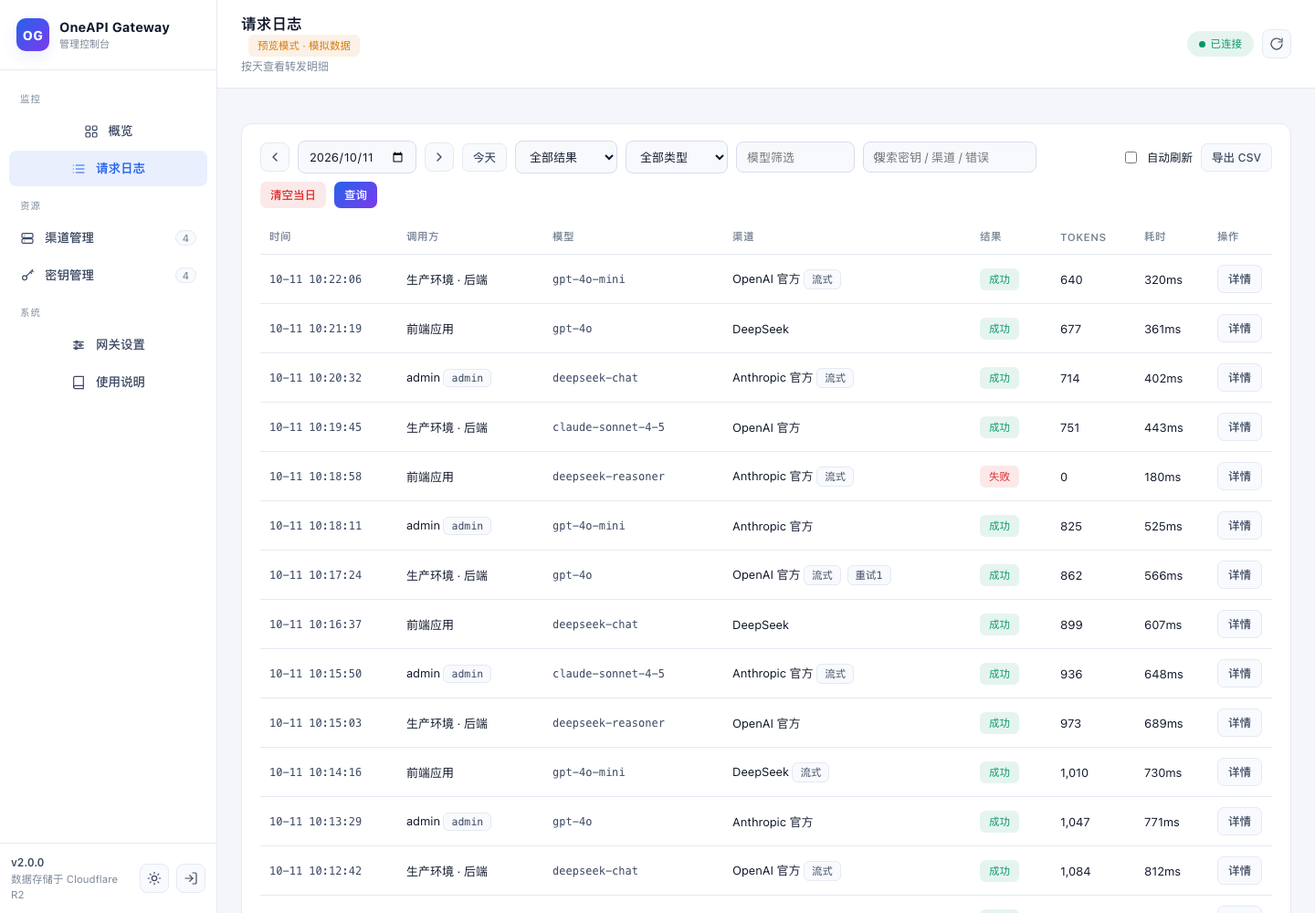
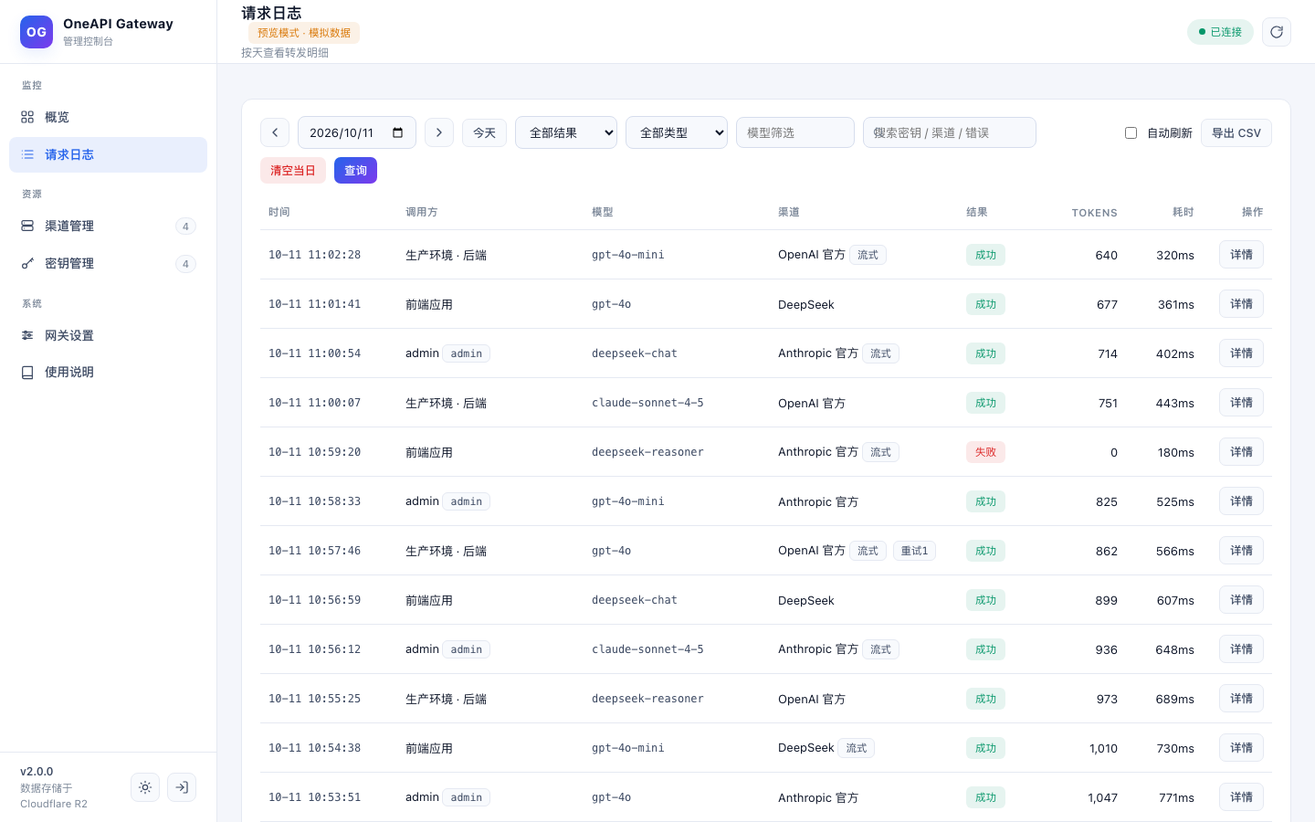
Add files via upload

diff --git a/preview/admin-preview.html b/preview/admin-preview.html
@@ -88,6 +88,7 @@
   .badge.info{background:var(--accent-soft);color:var(--accent);border-color:transparent}
   .badge.warn{background:var(--warn-soft);color:var(--warn);border-color:transparent}
   .chip{display:inline-block;padding:2px 8px;border-radius:6px;background:var(--panel2);border:1px solid var(--border);font-size:11.5px;margin:1px 3px 1px 0;color:var(--text2);font-family:var(--mono)}
+  .chip .nm{white-space:nowrap}
   .dot{width:8px;height:8px;border-radius:50%;display:inline-block;flex-shrink:0;background:var(--border2)}
   .dot.ok{background:var(--ok);box-shadow:0 0 0 3px var(--ok-soft)}
   .dot.bad{background:var(--bad);box-shadow:0 0 0 3px var(--bad-soft)}
@@ -154,18 +155,21 @@
 
   /* ---------- tables ---------- */
   table{width:100%;border-collapse:collapse;font-size:13px}
-  th,td{text-align:left;padding:11px 10px;border-bottom:1px solid var(--border);vertical-align:middle}
+  th,td{text-align:left;padding:11px 9px;border-bottom:1px solid var(--border);vertical-align:middle}
   th{color:var(--muted);font-weight:600;font-size:11.5px;white-space:nowrap;text-transform:uppercase;letter-spacing:.04em}
   tbody tr{transition:background .12s var(--ease)}
   tbody tr:hover{background:var(--hover)}
   tbody tr:last-child td{border-bottom:none}
   td.mono{font-family:var(--mono);font-size:12px;word-break:break-all;color:var(--text2)}
   .ops{white-space:nowrap;display:flex;gap:5px;align-items:center}
+  .ops.r{justify-content:flex-end}
+  th.ar,td.ar{text-align:right}
   .empty{padding:44px 10px;text-align:center;color:var(--muted);font-size:13px}
   .empty svg{width:30px;height:30px;margin-bottom:10px;opacity:.5}
   .tname{display:flex;align-items:center;gap:9px;min-width:0}
+  .tname>div{min-width:0}
   .tname b{font-weight:600;white-space:nowrap}
-  .tname .sub{font-size:11.5px;color:var(--muted);display:block;font-weight:400;margin-top:2px;max-width:230px;overflow:hidden;text-overflow:ellipsis;white-space:nowrap}
+  .tname .sub{font-size:11.5px;color:var(--muted);display:block;font-weight:400;margin-top:2px;max-width:170px;overflow:hidden;text-overflow:ellipsis;white-space:nowrap}
   .quota{display:flex;align-items:center;gap:8px;min-width:130px}
   .progress{flex:1;height:6px;background:var(--input);border-radius:4px;overflow:hidden;border:1px solid var(--border)}
   .progress i{display:block;height:100%;background:linear-gradient(90deg,var(--accent),var(--accent2));border-radius:4px;transition:width .3s var(--ease)}
@@ -176,7 +180,7 @@
   #chTable,#keyTable,#logTable{overflow-x:auto}
   .nowrap{white-space:nowrap}
   .sub{font-size:11.5px;color:var(--muted);display:block;margin-top:2px;font-weight:400}
-  .url{font-family:var(--mono);font-size:12px;color:var(--text2);display:block;max-width:210px;overflow:hidden;text-overflow:ellipsis;white-space:nowrap}
+  .url{font-family:var(--mono);font-size:12px;color:var(--text2);display:block;max-width:160px;overflow:hidden;text-overflow:ellipsis;white-space:nowrap}
   .phead{display:flex;gap:8px;font-size:11.5px;color:var(--muted);padding:0 0 7px;text-transform:uppercase;letter-spacing:.04em}
   .phead span{flex:1}
   .phead span:last-child{flex:0 0 34px;width:34px}
@@ -500,7 +504,7 @@
 <script>
 /* ===== 预览模式：拦截 /api/admin/*，返回本地模拟数据；不连接真实网关 ===== */
 (function () {
-  var M = {"channels":[{"id":"c-openai","name":"OpenAI 官方","type":"openai","base_url":"https://api.openai.com","api_key":"sk-a1,sk-a2,sk-a3","models":["gpt-4o","gpt-4o-mini","text-embedding-3-small"],"model_map":{"gpt-4o":"gpt-4o-2024-11-20"},"headers":{},"priority":100,"weight":3,"enabled":true,"health":{"ok":true,"ms":412,"checked_at":"2026-10-11T02:39:31.907Z"}},{"id":"c-deepseek","name":"DeepSeek","type":"openai","base_url":"https://api.deepseek.com","api_key":"sk-ds-1","models":["deepseek-chat","deepseek-reasoner"],"model_map":{},"headers":{},"priority":100,"weight":1,"enabled":true,"health":{"ok":true,"ms":288,"checked_at":"2026-10-11T02:36:31.907Z"}},{"id":"c-claude","name":"Anthropic 官方","type":"anthropic","base_url":"https://api.anthropic.com","api_key":"sk-ant-1","models":["claude-sonnet-4-5","claude-haiku-4-5"],"model_map":{},"headers":{},"default_max_tokens":4096,"priority":120,"weight":1,"enabled":true,"health":{"ok":false,"ms":0,"message":"HTTP 401 invalid x-api-key","checked_at":"2026-10-11T02:31:31.907Z"}},{"id":"c-moonshot","name":"Moonshot（备用）","type":"openai","base_url":"https://api.moonshot.cn","api_key":"","models":["moonshot-v1-8k"],"model_map":{},"headers":{},"priority":200,"weight":1,"enabled":false}],"keys":[{"key":"sk-9f3c1a7b42d84e0f8a6c5b3d2e1f0a9c8b7d6e5f4a3b2c1d","name":"生产环境 · 后端","enabled":true,"quota_tokens":5000000,"used_tokens":1284300,"requests":8421,"used_cost":38.42,"allowed_models":[],"note":"主力密钥","created_at":"2026-09-11T02:41:31.907Z","last_used_at":"2026-10-11T02:40:46.907Z","expires_at":""},{"key":"sk-2b8e4d6a1c9f3e7b5d0a8c2f4e6b1d3a9c7f5e2b8d4a6c0f","name":"前端应用","enabled":true,"quota_tokens":1000000,"used_tokens":962400,"requests":3120,"used_cost":12.08,"allowed_models":["gpt-4o-mini","deepseek-chat"],"note":"仅允许轻量模型","created_at":"2026-09-29T02:41:31.907Z","last_used_at":"2026-10-11T01:41:31.907Z","expires_at":"2026-10-31T02:41:31.907Z"},{"key":"sk-7a1d9c3f5b8e2d4a6c0f9b7e5d3a1c8f6b4e2d0a9c7f5b3e","name":"测试沙箱","enabled":true,"quota_tokens":200000,"used_tokens":200000,"requests":640,"used_cost":2.31,"allowed_models":[],"note":"配额已用尽","created_at":"2026-08-12T02:41:31.907Z","last_used_at":"2026-10-09T02:41:31.907Z","expires_at":""},{"key":"sk-4e6b8d0f2a4c6e8b0d2f4a6c8e0b2d4f6a8c0e2b4d6f8a0c","name":"已停用 · 旧客户端","enabled":false,"quota_tokens":0,"used_tokens":120450,"requests":980,"used_cost":4.55,"allowed_models":[],"created_at":"2026-07-13T02:41:31.907Z","last_used_at":"2026-09-26T02:41:31.907Z","expires_at":"2026-10-08T02:41:31.907Z"}],"settings":{"allow_admin_key_as_api_key":true,"request_timeout_ms":60000,"retries":1,"log_retention_days":30,"timezone_offset_minutes":480,"custom_models":["my-alias"],"default_pricing":{"in":0.15,"out":0.6},"pricing":{"gpt-4o":{"in":2.5,"out":10},"gpt-4o-mini":{"in":0.15,"out":0.6},"deepseek-chat":{"in":0.14,"out":0.28},"claude-sonnet-4-5":{"in":3,"out":15}}},"stats":{"days":[{"date":"2026-09-28","requests":293,"ok":289,"failed":4,"tokens":288019,"cost":0.39,"streams":182,"avg_ms":311,"hours":{}},{"date":"2026-09-29","requests":481,"ok":475,"failed":6,"tokens":467532,"cost":0.63,"streams":298,"avg_ms":292,"hours":{}},{"date":"2026-09-30","requests":644,"ok":636,"failed":8,"tokens":528724,"cost":0.71,"streams":399,"avg_ms":339,"hours":{}},{"date":"2026-10-01","requests":575,"ok":568,"failed":7,"tokens":384675,"cost":0.52,"streams":357,"avg_ms":417,"hours":{}},{"date":"2026-10-02","requests":408,"ok":403,"failed":5,"tokens":267648,"cost":0.36,"streams":253,"avg_ms":467,"hours":{}},{"date":"2026-10-03","requests":420,"ok":415,"failed":5,"tokens":333480,"cost":0.45,"streams":260,"avg_ms":451,"hours":{}},{"date":"2026-10-04","requests":625,"ok":617,"failed":8,"tokens":597500,"cost":0.81,"streams":388,"avg_ms":382,"hours":{}},{"date":"2026-10-05","requests":756,"ok":747,"failed":9,"tokens":750708,"cost":1.01,"streams":469,"avg_ms":310,"hours":{}},{"date":"2026-10-06","requests":652,"ok":644,"failed":8,"tokens":567892,"cost":0.77,"streams":404,"avg_ms":292,"hours":{}},{"date":"2026-10-07","requests":499,"ok":493,"failed":6,"tokens":350298,"cost":0.47,"streams":309,"avg_ms":340,"hours":{}},{"date":"2026-10-08","requests":552,"ok":491,"failed":61,"tokens":354384,"cost":0.48,"streams":342,"avg_ms":418,"hours":{}},{"date":"2026-10-09","requests":766,"ok":757,"failed":9,"tokens":570670,"cost":0.77,"streams":475,"avg_ms":468,"hours":{}},{"date":"2026-10-10","requests":860,"ok":850,"failed":10,"tokens":788620,"cost":1.06,"streams":533,"avg_ms":450,"hours":{}},{"date":"2026-10-11","requests":728,"ok":719,"failed":9,"tokens":728000,"cost":0.98,"streams":451,"avg_ms":380,"hours":{}}],"totals":{"requests":8259,"ok":8104,"failed":155,"tokens":6978150,"cost":9.42,"streams":5120,"latency_sum":3155640,"latency_n":8259,"avg_ms":382,"success_rate":98.1},"models":[{"name":"gpt-4o-mini","requests":2808,"ok":2780,"failed":28,"tokens":2372571,"cost":3.2},{"name":"deepseek-chat","requests":2230,"ok":2208,"failed":22,"tokens":1884101,"cost":2.54},{"name":"gpt-4o","requests":1487,"ok":1472,"failed":15,"tokens":1256067,"cost":1.7},{"name":"claude-sonnet-4-5","requests":1074,"ok":1063,"failed":11,"tokens":907160,"cost":1.22},{"name":"deepseek-reasoner","requests":661,"ok":654,"failed":7,"tokens":558252,"cost":0.75}],"channels":[{"name":"OpenAI 官方","requests":4295,"ok":4252,"failed":43,"tokens":3628638,"cost":4.9},{"name":"DeepSeek","requests":2891,"ok":2862,"failed":29,"tokens":2442353,"cost":3.3},{"name":"Anthropic 官方","requests":1074,"ok":1063,"failed":11,"tokens":907160,"cost":1.22}],"keys":[{"name":"生产环境 · 后端","requests":4790,"ok":4742,"failed":48,"tokens":4047327,"cost":5.46},{"name":"前端应用","requests":2313,"ok":2289,"failed":23,"tokens":1953882,"cost":2.64},{"name":"测试沙箱","requests":743,"ok":736,"failed":7,"tokens":628034,"cost":0.85},{"name":"admin","requests":413,"ok":409,"failed":4,"tokens":348908,"cost":0.47}]},"logs":[{"key":"logs/2026-10-11/8208313508092-ab12cd.json","ts":"2026-10-11T02:41:31.907Z","request_id":"req_1x9f2k1","key_name":"生产环境 · 后端","is_admin":false,"model":"gpt-4o-mini","channel":"OpenAI 官方","ok":true,"tokens":640,"cost":0.0009,"ms":320,"stream":true,"retries":0,"error":""},{"key":"logs/2026-10-11/8208313555092-ab12cd.json","ts":"2026-10-11T02:40:44.907Z","request_id":"req_2x9f2k1","key_name":"前端应用","is_admin":false,"model":"gpt-4o","channel":"DeepSeek","ok":true,"tokens":677,"cost":0.0009,"ms":361,"stream":false,"retries":0,"error":""},{"key":"logs/2026-10-11/8208313602092-ab12cd.json","ts":"2026-10-11T02:39:57.907Z","request_id":"req_3x9f2k1","key_name":"admin","is_admin":true,"model":"deepseek-chat","channel":"Anthropic 官方","ok":true,"tokens":714,"cost":0.001,"ms":402,"stream":true,"retries":0,"error":""},{"key":"logs/2026-10-11/8208313649092-ab12cd.json","ts":"2026-10-11T02:39:10.907Z","request_id":"req_4x9f2k1","key_name":"生产环境 · 后端","is_admin":false,"model":"claude-sonnet-4-5","channel":"OpenAI 官方","ok":true,"tokens":751,"cost":0.001,"ms":443,"stream":false,"retries":0,"error":""},{"key":"logs/2026-10-11/8208313696092-ab12cd.json","ts":"2026-10-11T02:38:23.907Z","request_id":"req_5x9f2k1","key_name":"前端应用","is_admin":false,"model":"deepseek-reasoner","channel":"Anthropic 官方","ok":false,"tokens":0,"cost":0,"ms":180,"stream":true,"retries":0,"error":"HTTP 401 invalid x-api-key"},{"key":"logs/2026-10-11/8208313743092-ab12cd.json","ts":"2026-10-11T02:37:36.907Z","request_id":"req_6x9f2k1","key_name":"admin","is_admin":true,"model":"gpt-4o-mini","channel":"Anthropic 官方","ok":true,"tokens":825,"cost":0.0011,"ms":525,"stream":false,"retries":0,"error":""},{"key":"logs/2026-10-11/8208313790092-ab12cd.json","ts":"2026-10-11T02:36:49.907Z","request_id":"req_7x9f2k1","key_name":"生产环境 · 后端","is_admin":false,"model":"gpt-4o","channel":"OpenAI 官方","ok":true,"tokens":862,"cost":0.0012,"ms":566,"stream":true,"retries":1,"error":""},{"key":"logs/2026-10-11/8208313837092-ab12cd.json","ts":"2026-10-11T02:36:02.907Z","request_id":"req_8x9f2k1","key_name":"前端应用","is_admin":false,"model":"deepseek-chat","channel":"DeepSeek","ok":true,"tokens":899,"cost":0.0012,"ms":607,"stream":false,"retries":0,"error":""},{"key":"logs/2026-10-11/8208313884092-ab12cd.json","ts":"2026-10-11T02:35:15.907Z","request_id":"req_9x9f2k1","key_name":"admin","is_admin":true,"model":"claude-sonnet-4-5","channel":"Anthropic 官方","ok":true,"tokens":936,"cost":0.0013,"ms":648,"stream":true,"retries":0,"error":""},{"key":"logs/2026-10-11/8208313931092-ab12cd.json","ts":"2026-10-11T02:34:28.907Z","request_id":"req_ax9f2k1","key_name":"生产环境 · 后端","is_admin":false,"model":"deepseek-reasoner","channel":"OpenAI 官方","ok":true,"tokens":973,"cost":0.0013,"ms":689,"stream":false,"retries":0,"error":""},{"key":"logs/2026-10-11/8208313978092-ab12cd.json","ts":"2026-10-11T02:33:41.907Z","request_id":"req_bx9f2k1","key_name":"前端应用","is_admin":false,"model":"gpt-4o-mini","channel":"DeepSeek","ok":true,"tokens":1010,"cost":0.0014,"ms":730,"stream":true,"retries":0,"error":""},{"key":"logs/2026-10-11/8208314025092-ab12cd.json","ts":"2026-10-11T02:32:54.907Z","request_id":"req_cx9f2k1","key_name":"admin","is_admin":true,"model":"gpt-4o","channel":"Anthropic 官方","ok":true,"tokens":1047,"cost":0.0014,"ms":771,"stream":false,"retries":0,"error":""},{"key":"logs/2026-10-11/8208314072092-ab12cd.json","ts":"2026-10-11T02:32:07.907Z","request_id":"req_dx9f2k1","key_name":"生产环境 · 后端","is_admin":false,"model":"deepseek-chat","channel":"OpenAI 官方","ok":true,"tokens":1084,"cost":0.0015,"ms":812,"stream":true,"retries":0,"error":""},{"key":"logs/2026-10-11/8208314119092-ab12cd.json","ts":"2026-10-11T02:31:20.907Z","request_id":"req_ex9f2k1","key_name":"前端应用","is_admin":false,"model":"claude-sonnet-4-5","channel":"DeepSeek","ok":true,"tokens":1121,"cost":0.0015,"ms":853,"stream":false,"retries":0,"error":""}],"dates":["2026-10-11","2026-10-10","2026-10-09"]};
+  var M = {"channels":[{"id":"c-openai","name":"OpenAI 官方","type":"openai","base_url":"https://api.openai.com","api_key":"sk-a1,sk-a2,sk-a3","models":["gpt-4o","gpt-4o-mini","text-embedding-3-small"],"model_map":{"gpt-4o":"gpt-4o-2024-11-20"},"headers":{},"priority":100,"weight":3,"enabled":true,"health":{"ok":true,"ms":412,"checked_at":"2026-10-11T03:00:28.611Z"}},{"id":"c-deepseek","name":"DeepSeek","type":"openai","base_url":"https://api.deepseek.com","api_key":"sk-ds-1","models":["deepseek-chat","deepseek-reasoner"],"model_map":{},"headers":{},"priority":100,"weight":1,"enabled":true,"health":{"ok":true,"ms":288,"checked_at":"2026-10-11T02:57:28.611Z"}},{"id":"c-claude","name":"Anthropic 官方","type":"anthropic","base_url":"https://api.anthropic.com","api_key":"sk-ant-1","models":["claude-sonnet-4-5","claude-haiku-4-5"],"model_map":{},"headers":{},"default_max_tokens":4096,"priority":120,"weight":1,"enabled":true,"health":{"ok":false,"ms":0,"message":"HTTP 401 invalid x-api-key","checked_at":"2026-10-11T02:52:28.611Z"}},{"id":"c-moonshot","name":"Moonshot（备用）","type":"openai","base_url":"https://api.moonshot.cn","api_key":"","models":["moonshot-v1-8k"],"model_map":{},"headers":{},"priority":200,"weight":1,"enabled":false}],"keys":[{"key":"sk-9f3c1a7b42d84e0f8a6c5b3d2e1f0a9c8b7d6e5f4a3b2c1d","name":"生产环境 · 后端","enabled":true,"quota_tokens":5000000,"used_tokens":1284300,"requests":8421,"used_cost":38.42,"allowed_models":[],"note":"主力密钥","created_at":"2026-09-11T03:02:28.611Z","last_used_at":"2026-10-11T03:01:43.611Z","expires_at":""},{"key":"sk-2b8e4d6a1c9f3e7b5d0a8c2f4e6b1d3a9c7f5e2b8d4a6c0f","name":"前端应用","enabled":true,"quota_tokens":1000000,"used_tokens":962400,"requests":3120,"used_cost":12.08,"allowed_models":["gpt-4o-mini","deepseek-chat"],"note":"仅允许轻量模型","created_at":"2026-09-29T03:02:28.611Z","last_used_at":"2026-10-11T02:02:28.611Z","expires_at":"2026-10-31T03:02:28.611Z"},{"key":"sk-7a1d9c3f5b8e2d4a6c0f9b7e5d3a1c8f6b4e2d0a9c7f5b3e","name":"测试沙箱","enabled":true,"quota_tokens":200000,"used_tokens":200000,"requests":640,"used_cost":2.31,"allowed_models":[],"note":"配额已用尽","created_at":"2026-08-12T03:02:28.611Z","last_used_at":"2026-10-09T03:02:28.611Z","expires_at":""},{"key":"sk-4e6b8d0f2a4c6e8b0d2f4a6c8e0b2d4f6a8c0e2b4d6f8a0c","name":"已停用 · 旧客户端","enabled":false,"quota_tokens":0,"used_tokens":120450,"requests":980,"used_cost":4.55,"allowed_models":[],"created_at":"2026-07-13T03:02:28.611Z","last_used_at":"2026-09-26T03:02:28.611Z","expires_at":"2026-10-08T03:02:28.611Z"}],"settings":{"allow_admin_key_as_api_key":true,"request_timeout_ms":60000,"retries":1,"log_retention_days":30,"timezone_offset_minutes":480,"custom_models":["my-alias"],"default_pricing":{"in":0.15,"out":0.6},"pricing":{"gpt-4o":{"in":2.5,"out":10},"gpt-4o-mini":{"in":0.15,"out":0.6},"deepseek-chat":{"in":0.14,"out":0.28},"claude-sonnet-4-5":{"in":3,"out":15}}},"stats":{"days":[{"date":"2026-09-28","requests":293,"ok":289,"failed":4,"tokens":288019,"cost":0.39,"streams":182,"avg_ms":311,"hours":{}},{"date":"2026-09-29","requests":481,"ok":475,"failed":6,"tokens":467532,"cost":0.63,"streams":298,"avg_ms":292,"hours":{}},{"date":"2026-09-30","requests":644,"ok":636,"failed":8,"tokens":528724,"cost":0.71,"streams":399,"avg_ms":339,"hours":{}},{"date":"2026-10-01","requests":575,"ok":568,"failed":7,"tokens":384675,"cost":0.52,"streams":357,"avg_ms":417,"hours":{}},{"date":"2026-10-02","requests":408,"ok":403,"failed":5,"tokens":267648,"cost":0.36,"streams":253,"avg_ms":467,"hours":{}},{"date":"2026-10-03","requests":420,"ok":415,"failed":5,"tokens":333480,"cost":0.45,"streams":260,"avg_ms":451,"hours":{}},{"date":"2026-10-04","requests":625,"ok":617,"failed":8,"tokens":597500,"cost":0.81,"streams":388,"avg_ms":382,"hours":{}},{"date":"2026-10-05","requests":756,"ok":747,"failed":9,"tokens":750708,"cost":1.01,"streams":469,"avg_ms":310,"hours":{}},{"date":"2026-10-06","requests":652,"ok":644,"failed":8,"tokens":567892,"cost":0.77,"streams":404,"avg_ms":292,"hours":{}},{"date":"2026-10-07","requests":499,"ok":493,"failed":6,"tokens":350298,"cost":0.47,"streams":309,"avg_ms":340,"hours":{}},{"date":"2026-10-08","requests":552,"ok":491,"failed":61,"tokens":354384,"cost":0.48,"streams":342,"avg_ms":418,"hours":{}},{"date":"2026-10-09","requests":766,"ok":757,"failed":9,"tokens":570670,"cost":0.77,"streams":475,"avg_ms":468,"hours":{}},{"date":"2026-10-10","requests":860,"ok":850,"failed":10,"tokens":788620,"cost":1.06,"streams":533,"avg_ms":450,"hours":{}},{"date":"2026-10-11","requests":728,"ok":719,"failed":9,"tokens":728000,"cost":0.98,"streams":451,"avg_ms":380,"hours":{}}],"totals":{"requests":8259,"ok":8104,"failed":155,"tokens":6978150,"cost":9.42,"streams":5120,"latency_sum":3155640,"latency_n":8259,"avg_ms":382,"success_rate":98.1},"models":[{"name":"gpt-4o-mini","requests":2808,"ok":2780,"failed":28,"tokens":2372571,"cost":3.2},{"name":"deepseek-chat","requests":2230,"ok":2208,"failed":22,"tokens":1884101,"cost":2.54},{"name":"gpt-4o","requests":1487,"ok":1472,"failed":15,"tokens":1256067,"cost":1.7},{"name":"claude-sonnet-4-5","requests":1074,"ok":1063,"failed":11,"tokens":907160,"cost":1.22},{"name":"deepseek-reasoner","requests":661,"ok":654,"failed":7,"tokens":558252,"cost":0.75}],"channels":[{"name":"OpenAI 官方","requests":4295,"ok":4252,"failed":43,"tokens":3628638,"cost":4.9},{"name":"DeepSeek","requests":2891,"ok":2862,"failed":29,"tokens":2442353,"cost":3.3},{"name":"Anthropic 官方","requests":1074,"ok":1063,"failed":11,"tokens":907160,"cost":1.22}],"keys":[{"name":"生产环境 · 后端","requests":4790,"ok":4742,"failed":48,"tokens":4047327,"cost":5.46},{"name":"前端应用","requests":2313,"ok":2289,"failed":23,"tokens":1953882,"cost":2.64},{"name":"测试沙箱","requests":743,"ok":736,"failed":7,"tokens":628034,"cost":0.85},{"name":"admin","requests":413,"ok":409,"failed":4,"tokens":348908,"cost":0.47}]},"logs":[{"key":"logs/2026-10-11/8208312251388-ab12cd.json","ts":"2026-10-11T03:02:28.611Z","request_id":"req_1x9f2k1","key_name":"生产环境 · 后端","is_admin":false,"model":"gpt-4o-mini","channel":"OpenAI 官方","ok":true,"tokens":640,"cost":0.0009,"ms":320,"stream":true,"retries":0,"error":""},{"key":"logs/2026-10-11/8208312298388-ab12cd.json","ts":"2026-10-11T03:01:41.611Z","request_id":"req_2x9f2k1","key_name":"前端应用","is_admin":false,"model":"gpt-4o","channel":"DeepSeek","ok":true,"tokens":677,"cost":0.0009,"ms":361,"stream":false,"retries":0,"error":""},{"key":"logs/2026-10-11/8208312345388-ab12cd.json","ts":"2026-10-11T03:00:54.611Z","request_id":"req_3x9f2k1","key_name":"admin","is_admin":true,"model":"deepseek-chat","channel":"Anthropic 官方","ok":true,"tokens":714,"cost":0.001,"ms":402,"stream":true,"retries":0,"error":""},{"key":"logs/2026-10-11/8208312392388-ab12cd.json","ts":"2026-10-11T03:00:07.611Z","request_id":"req_4x9f2k1","key_name":"生产环境 · 后端","is_admin":false,"model":"claude-sonnet-4-5","channel":"OpenAI 官方","ok":true,"tokens":751,"cost":0.001,"ms":443,"stream":false,"retries":0,"error":""},{"key":"logs/2026-10-11/8208312439388-ab12cd.json","ts":"2026-10-11T02:59:20.611Z","request_id":"req_5x9f2k1","key_name":"前端应用","is_admin":false,"model":"deepseek-reasoner","channel":"Anthropic 官方","ok":false,"tokens":0,"cost":0,"ms":180,"stream":true,"retries":0,"error":"HTTP 401 invalid x-api-key"},{"key":"logs/2026-10-11/8208312486388-ab12cd.json","ts":"2026-10-11T02:58:33.611Z","request_id":"req_6x9f2k1","key_name":"admin","is_admin":true,"model":"gpt-4o-mini","channel":"Anthropic 官方","ok":true,"tokens":825,"cost":0.0011,"ms":525,"stream":false,"retries":0,"error":""},{"key":"logs/2026-10-11/8208312533388-ab12cd.json","ts":"2026-10-11T02:57:46.611Z","request_id":"req_7x9f2k1","key_name":"生产环境 · 后端","is_admin":false,"model":"gpt-4o","channel":"OpenAI 官方","ok":true,"tokens":862,"cost":0.0012,"ms":566,"stream":true,"retries":1,"error":""},{"key":"logs/2026-10-11/8208312580388-ab12cd.json","ts":"2026-10-11T02:56:59.611Z","request_id":"req_8x9f2k1","key_name":"前端应用","is_admin":false,"model":"deepseek-chat","channel":"DeepSeek","ok":true,"tokens":899,"cost":0.0012,"ms":607,"stream":false,"retries":0,"error":""},{"key":"logs/2026-10-11/8208312627388-ab12cd.json","ts":"2026-10-11T02:56:12.611Z","request_id":"req_9x9f2k1","key_name":"admin","is_admin":true,"model":"claude-sonnet-4-5","channel":"Anthropic 官方","ok":true,"tokens":936,"cost":0.0013,"ms":648,"stream":true,"retries":0,"error":""},{"key":"logs/2026-10-11/8208312674388-ab12cd.json","ts":"2026-10-11T02:55:25.611Z","request_id":"req_ax9f2k1","key_name":"生产环境 · 后端","is_admin":false,"model":"deepseek-reasoner","channel":"OpenAI 官方","ok":true,"tokens":973,"cost":0.0013,"ms":689,"stream":false,"retries":0,"error":""},{"key":"logs/2026-10-11/8208312721388-ab12cd.json","ts":"2026-10-11T02:54:38.611Z","request_id":"req_bx9f2k1","key_name":"前端应用","is_admin":false,"model":"gpt-4o-mini","channel":"DeepSeek","ok":true,"tokens":1010,"cost":0.0014,"ms":730,"stream":true,"retries":0,"error":""},{"key":"logs/2026-10-11/8208312768388-ab12cd.json","ts":"2026-10-11T02:53:51.611Z","request_id":"req_cx9f2k1","key_name":"admin","is_admin":true,"model":"gpt-4o","channel":"Anthropic 官方","ok":true,"tokens":1047,"cost":0.0014,"ms":771,"stream":false,"retries":0,"error":""},{"key":"logs/2026-10-11/8208312815388-ab12cd.json","ts":"2026-10-11T02:53:04.611Z","request_id":"req_dx9f2k1","key_name":"生产环境 · 后端","is_admin":false,"model":"deepseek-chat","channel":"OpenAI 官方","ok":true,"tokens":1084,"cost":0.0015,"ms":812,"stream":true,"retries":0,"error":""},{"key":"logs/2026-10-11/8208312862388-ab12cd.json","ts":"2026-10-11T02:52:17.611Z","request_id":"req_ex9f2k1","key_name":"前端应用","is_admin":false,"model":"claude-sonnet-4-5","channel":"DeepSeek","ok":true,"tokens":1121,"cost":0.0015,"ms":853,"stream":false,"retries":0,"error":""}],"dates":["2026-10-11","2026-10-10","2026-10-09"]};
   var realFetch = window.fetch.bind(window);
   function jsonResponse(body) {
     return Promise.resolve(new Response(JSON.stringify(body), { status: 200, headers: { 'Content-Type': 'application/json' } }));
@@ -876,9 +880,9 @@ function renderOverview(){
   $('ovKeys').innerHTML = keys.length ? miniTable(keys, ['密钥', '请求', 'Tokens', '费用']) : '<div class="empty">' + I.inbox + '<div>暂无数据</div></div>';
 }
 function miniTable(rows, cols){
-  var h = '<table><thead><tr><th>' + cols[0] + '</th><th>' + cols[1] + '</th><th>' + cols[2] + '</th><th>' + cols[3] + '</th></tr></thead><tbody>';
+  var h = '<table><thead><tr><th style="min-width:150px">' + cols[0] + '</th><th class="ar">' + cols[1] + '</th><th class="ar">' + cols[2] + '</th><th class="ar">' + cols[3] + '</th></tr></thead><tbody>';
   rows.forEach(function(r){
-    h += '<tr><td class="mono">' + esc(r.name) + '</td><td>' + fmtNum(r.requests) + '</td><td>' + fmtNum(r.tokens) + '</td><td>$' + fmtCost(r.cost) + '</td></tr>';
+    h += '<tr><td class="mono">' + esc(r.name) + '</td><td class="ar">' + fmtNum(r.requests) + '</td><td class="ar">' + fmtNum(r.tokens) + '</td><td class="ar">$' + fmtCost(r.cost) + '</td></tr>';
   });
   return h + '</tbody></table>';
 }
@@ -894,8 +898,9 @@ function modelChips(c){
   var out = models.slice(0, 3).map(function(m){
     var t = map[m];
     var renamed = t && t !== m;
-    return '<span class="chip" title="' + esc(renamed ? '对外名称 ' + m + ' → 上游真实模型 ' + t : m) + '">' + esc(m) +
-      (renamed ? ' <span class="muted">→ ' + esc(t) + '</span>' : '') + '</span>';
+    return '<span class="chip" title="' + esc(renamed ? '对外名称 ' + m + ' → 上游真实模型 ' + t : m) + '">' +
+      '<span class="nm">' + esc(m) + '</span>' +
+      (renamed ? ' <span class="nm muted">→ ' + esc(t) + '</span>' : '') + '</span>';
   }).join('');
   if(models.length > 3) out += '<span class="chip">+' + (models.length - 3) + '</span>';
   return out;
@@ -917,7 +922,7 @@ function filteredChannels(){
 }
 function renderChannels(){
   var list = filteredChannels();
-  var h = '<table><thead><tr><th style="width:56px">状态</th><th>名称</th><th>类型</th><th>Base URL</th><th>模型</th><th style="width:92px">优先级</th><th style="width:96px">健康</th><th style="width:190px">操作</th></tr></thead><tbody>';
+  var h = '<table><thead><tr><th style="width:56px">状态</th><th style="min-width:170px">名称</th><th style="width:112px">类型</th><th style="min-width:140px">Base URL</th><th style="width:220px">模型</th><th class="ar" style="width:76px">优先级</th><th style="width:72px">健康</th><th class="ar" style="width:172px">操作</th></tr></thead><tbody>';
   if(!list.length){
     h += '<tr><td colspan="8"><div class="empty">' + I.inbox + '<div>' + (S.channels.length ? '没有符合筛选条件的渠道' : '暂无渠道，点击右上角「添加渠道」创建') + '</div></div></td></tr>';
   }
@@ -925,15 +930,16 @@ function renderChannels(){
     var c = o.c, i = o.i;
     var hh = c.health;
     var hb = hh ? (hh.ok ? '<span class="badge ok">正常</span>' : '<span class="badge bad" title="' + esc(hh.message || '') + '">异常</span>') : '<span class="badge">-</span>';
+    var subTxt = 'API Key × ' + String(c.api_key || '').split(',').filter(function(s){ return s.trim(); }).length + (hh && hh.checked_at ? ' · 测试于 ' + fmtTime(hh.checked_at) : '');
     h += '<tr>' +
       '<td><label class="switch"><input type="checkbox" data-act="toggle-ch" data-i="' + i + '"' + (c.enabled ? ' checked' : '') + '><span></span></label></td>' +
-      '<td><div class="tname"><div><b>' + esc(c.name) + '</b><span class="sub">API Key × ' + String(c.api_key || '').split(',').filter(function(s){ return s.trim(); }).length + (hh && hh.checked_at ? ' · 测试于 ' + esc(fmtTime(hh.checked_at)) : '') + '</span></div></div></td>' +
+      '<td><div class="tname"><div><b>' + esc(c.name) + '</b><span class="sub" title="' + esc(subTxt) + '">' + esc(subTxt) + '</span></div></div></td>' +
       '<td>' + typeBadge(c) + '</td>' +
       '<td><span class="url" title="' + esc(c.base_url) + '">' + esc(c.base_url) + '</span></td>' +
       '<td>' + modelChips(c) + '</td>' +
-      '<td>' + esc(c.priority == null ? 100 : c.priority) + ' <span class="muted">/ w' + esc(c.weight || 1) + '</span></td>' +
+      '<td class="ar nowrap">' + esc(c.priority == null ? 100 : c.priority) + ' <span class="muted">/ w' + esc(c.weight || 1) + '</span></td>' +
       '<td>' + hb + '</td>' +
-      '<td><div class="ops"><button class="ghost sm" data-act="test-ch" data-i="' + i + '">测试</button>' +
+      '<td><div class="ops r"><button class="ghost sm" data-act="test-ch" data-i="' + i + '">测试</button>' +
       '<button class="ghost sm" data-act="edit-ch" data-i="' + i + '">编辑</button>' +
       '<button class="soft sm" data-act="del-ch" data-i="' + i + '">删除</button></div></td></tr>';
   });
@@ -1144,7 +1150,7 @@ function filteredKeys(){
 }
 function renderKeys(){
   var list = filteredKeys();
-  var h = '<table><thead><tr><th style="width:56px">状态</th><th style="min-width:150px">名称</th><th style="min-width:150px">密钥</th><th style="width:130px">配额</th><th style="width:150px">已用 Tokens</th><th style="width:90px">有效期</th><th style="width:230px">操作</th></tr></thead><tbody>';
+  var h = '<table><thead><tr><th style="width:56px">状态</th><th style="min-width:150px">名称</th><th style="min-width:150px">密钥</th><th style="width:132px">配额</th><th class="ar" style="width:152px">已用 Tokens</th><th style="width:108px">有效期</th><th class="ar" style="width:212px">操作</th></tr></thead><tbody>';
   if(!list.length){
     h += '<tr><td colspan="7"><div class="empty">' + I.inbox + '<div>' + (S.keys.length ? '没有符合筛选条件的密钥' : '暂无密钥，点击右上角「生成密钥」创建') + '</div></div></td></tr>';
   }
@@ -1162,9 +1168,9 @@ function renderKeys(){
       '<td><div class="tname"><div><b>' + esc(k.name) + '</b>' + (subs.length ? '<span class="sub" title="' + esc(subs.join(' · ')) + '">' + subs.join(' · ') + '</span>' : '') + '</div></div></td>' +
       '<td class="mono nowrap">' + esc(maskKey(k.key)) + ' <button class="ghost sm" data-act="copy-key" data-i="' + i + '" title="复制完整密钥"><svg viewBox="0 0 24 24" fill="none" stroke="currentColor" stroke-width="1.8" stroke-linecap="round" stroke-linejoin="round"><rect x="9" y="9" width="12" height="12" rx="2"/><path d="M5 15V5a2 2 0 0 1 2-2h10"/></svg></button></td>' +
       '<td>' + quotaCell(k) + '</td>' +
-      '<td class="nowrap">' + fmtNum(k.used_tokens) + (k.quota_tokens > 0 ? ' <span class="muted">/ ' + fmtNum(k.quota_tokens) + '</span>' : '') + '<span class="sub muted">' + fmtNum(k.requests) + ' 次请求 · $' + fmtCost(k.used_cost) + '</span></td>' +
-      '<td>' + expTxt + '</td>' +
-      '<td><div class="ops"><button class="ghost sm" data-act="edit-key" data-i="' + i + '">编辑</button>' +
+      '<td class="nowrap ar">' + fmtNum(k.used_tokens) + (k.quota_tokens > 0 ? ' <span class="muted">/ ' + fmtNum(k.quota_tokens) + '</span>' : '') + '<span class="sub muted">' + fmtNum(k.requests) + ' 次请求 · $' + fmtCost(k.used_cost) + '</span></td>' +
+      '<td class="nowrap">' + expTxt + '</td>' +
+      '<td><div class="ops r"><button class="ghost sm" data-act="edit-key" data-i="' + i + '">编辑</button>' +
       '<button class="ghost sm" data-act="curl-key" data-i="' + i + '">示例</button>' +
       '<button class="ghost sm" data-act="reset-key" data-i="' + i + '">清零</button>' +
       '<button class="soft sm" data-act="del-key" data-i="' + i + '">删除</button></div></td></tr>';
@@ -1290,7 +1296,7 @@ function loadLogs(silent){
 }
 var LOGF = { ok:'', stream:'', model:'', q:'' };
 function renderLogs(){
-  var h = '<table><thead><tr><th style="width:150px">时间</th><th>调用方</th><th>模型</th><th>渠道</th><th style="width:88px">结果</th><th style="width:92px">Tokens</th><th style="width:80px">耗时</th><th style="width:70px">操作</th></tr></thead><tbody>';
+  var h = '<table><thead><tr><th style="width:150px">时间</th><th style="min-width:150px">调用方</th><th style="min-width:150px">模型</th><th style="width:206px">渠道</th><th style="width:88px">结果</th><th class="ar" style="width:96px">Tokens</th><th class="ar" style="width:84px">耗时</th><th class="ar" style="width:76px">操作</th></tr></thead><tbody>';
   if(!S.logs.length){
     h += '<tr><td colspan="8"><div class="empty">' + I.inbox + '<div>' + esc(S.logDate || '') + ' 暂无符合条件的请求日志</div><div id="logEmptyHint" style="margin-top:12px"></div></div></td></tr>';
   }
@@ -1300,9 +1306,9 @@ function renderLogs(){
       '<td class="mono">' + esc(l.model || '-') + '</td>' +
       '<td>' + esc(l.channel || '-') + (l.stream ? ' <span class="chip">流式</span>' : '') + (l.retries ? ' <span class="chip">重试' + l.retries + '</span>' : '') + '</td>' +
       '<td>' + (l.ok ? '<span class="badge ok">成功</span>' : '<span class="badge bad" title="' + esc(l.error) + '">失败</span>') + '</td>' +
-      '<td>' + fmtNum(l.tokens) + '</td>' +
-      '<td>' + esc(fmtMs(l.ms)) + '</td>' +
-      '<td><button class="ghost sm" data-act="view-log" data-i="' + i + '">详情</button></td></tr>';
+      '<td class="ar">' + fmtNum(l.tokens) + '</td>' +
+      '<td class="ar nowrap">' + esc(fmtMs(l.ms)) + '</td>' +
+      '<td class="ar"><button class="ghost sm" data-act="view-log" data-i="' + i + '">详情</button></td></tr>';
   });
   $('logTable').innerHTML = h + '</tbody></table>';
   $('logPager').innerHTML = S.logCursor ? '<button class="ghost sm" data-act="log-more">加载更早的日志</button>' : (S.logs.length ? '<span class="muted" style="font-size:12px">已到当日日志末尾</span>' : '');

diff --git a/src/admin-ui.js b/src/admin-ui.js
@@ -97,6 +97,7 @@ export const ADMIN_HTML = `<!DOCTYPE html>
   .badge.info{background:var(--accent-soft);color:var(--accent);border-color:transparent}
   .badge.warn{background:var(--warn-soft);color:var(--warn);border-color:transparent}
   .chip{display:inline-block;padding:2px 8px;border-radius:6px;background:var(--panel2);border:1px solid var(--border);font-size:11.5px;margin:1px 3px 1px 0;color:var(--text2);font-family:var(--mono)}
+  .chip .nm{white-space:nowrap}
   .dot{width:8px;height:8px;border-radius:50%;display:inline-block;flex-shrink:0;background:var(--border2)}
   .dot.ok{background:var(--ok);box-shadow:0 0 0 3px var(--ok-soft)}
   .dot.bad{background:var(--bad);box-shadow:0 0 0 3px var(--bad-soft)}
@@ -163,18 +164,21 @@ export const ADMIN_HTML = `<!DOCTYPE html>
 
   /* ---------- tables ---------- */
   table{width:100%;border-collapse:collapse;font-size:13px}
-  th,td{text-align:left;padding:11px 10px;border-bottom:1px solid var(--border);vertical-align:middle}
+  th,td{text-align:left;padding:11px 9px;border-bottom:1px solid var(--border);vertical-align:middle}
   th{color:var(--muted);font-weight:600;font-size:11.5px;white-space:nowrap;text-transform:uppercase;letter-spacing:.04em}
   tbody tr{transition:background .12s var(--ease)}
   tbody tr:hover{background:var(--hover)}
   tbody tr:last-child td{border-bottom:none}
   td.mono{font-family:var(--mono);font-size:12px;word-break:break-all;color:var(--text2)}
   .ops{white-space:nowrap;display:flex;gap:5px;align-items:center}
+  .ops.r{justify-content:flex-end}
+  th.ar,td.ar{text-align:right}
   .empty{padding:44px 10px;text-align:center;color:var(--muted);font-size:13px}
   .empty svg{width:30px;height:30px;margin-bottom:10px;opacity:.5}
   .tname{display:flex;align-items:center;gap:9px;min-width:0}
+  .tname>div{min-width:0}
   .tname b{font-weight:600;white-space:nowrap}
-  .tname .sub{font-size:11.5px;color:var(--muted);display:block;font-weight:400;margin-top:2px;max-width:230px;overflow:hidden;text-overflow:ellipsis;white-space:nowrap}
+  .tname .sub{font-size:11.5px;color:var(--muted);display:block;font-weight:400;margin-top:2px;max-width:170px;overflow:hidden;text-overflow:ellipsis;white-space:nowrap}
   .quota{display:flex;align-items:center;gap:8px;min-width:130px}
   .progress{flex:1;height:6px;background:var(--input);border-radius:4px;overflow:hidden;border:1px solid var(--border)}
   .progress i{display:block;height:100%;background:linear-gradient(90deg,var(--accent),var(--accent2));border-radius:4px;transition:width .3s var(--ease)}
@@ -185,7 +189,7 @@ export const ADMIN_HTML = `<!DOCTYPE html>
   #chTable,#keyTable,#logTable{overflow-x:auto}
   .nowrap{white-space:nowrap}
   .sub{font-size:11.5px;color:var(--muted);display:block;margin-top:2px;font-weight:400}
-  .url{font-family:var(--mono);font-size:12px;color:var(--text2);display:block;max-width:210px;overflow:hidden;text-overflow:ellipsis;white-space:nowrap}
+  .url{font-family:var(--mono);font-size:12px;color:var(--text2);display:block;max-width:160px;overflow:hidden;text-overflow:ellipsis;white-space:nowrap}
   .phead{display:flex;gap:8px;font-size:11.5px;color:var(--muted);padding:0 0 7px;text-transform:uppercase;letter-spacing:.04em}
   .phead span{flex:1}
   .phead span:last-child{flex:0 0 34px;width:34px}
@@ -805,9 +809,9 @@ function renderOverview(){
   $('ovKeys').innerHTML = keys.length ? miniTable(keys, ['密钥', '请求', 'Tokens', '费用']) : '<div class="empty">' + I.inbox + '<div>暂无数据</div></div>';
 }
 function miniTable(rows, cols){
-  var h = '<table><thead><tr><th>' + cols[0] + '</th><th>' + cols[1] + '</th><th>' + cols[2] + '</th><th>' + cols[3] + '</th></tr></thead><tbody>';
+  var h = '<table><thead><tr><th style="min-width:150px">' + cols[0] + '</th><th class="ar">' + cols[1] + '</th><th class="ar">' + cols[2] + '</th><th class="ar">' + cols[3] + '</th></tr></thead><tbody>';
   rows.forEach(function(r){
-    h += '<tr><td class="mono">' + esc(r.name) + '</td><td>' + fmtNum(r.requests) + '</td><td>' + fmtNum(r.tokens) + '</td><td>$' + fmtCost(r.cost) + '</td></tr>';
+    h += '<tr><td class="mono">' + esc(r.name) + '</td><td class="ar">' + fmtNum(r.requests) + '</td><td class="ar">' + fmtNum(r.tokens) + '</td><td class="ar">$' + fmtCost(r.cost) + '</td></tr>';
   });
   return h + '</tbody></table>';
 }
@@ -823,8 +827,9 @@ function modelChips(c){
   var out = models.slice(0, 3).map(function(m){
     var t = map[m];
     var renamed = t && t !== m;
-    return '<span class="chip" title="' + esc(renamed ? '对外名称 ' + m + ' → 上游真实模型 ' + t : m) + '">' + esc(m) +
-      (renamed ? ' <span class="muted">→ ' + esc(t) + '</span>' : '') + '</span>';
+    return '<span class="chip" title="' + esc(renamed ? '对外名称 ' + m + ' → 上游真实模型 ' + t : m) + '">' +
+      '<span class="nm">' + esc(m) + '</span>' +
+      (renamed ? ' <span class="nm muted">→ ' + esc(t) + '</span>' : '') + '</span>';
   }).join('');
   if(models.length > 3) out += '<span class="chip">+' + (models.length - 3) + '</span>';
   return out;
@@ -846,7 +851,7 @@ function filteredChannels(){
 }
 function renderChannels(){
   var list = filteredChannels();
-  var h = '<table><thead><tr><th style="width:56px">状态</th><th>名称</th><th>类型</th><th>Base URL</th><th>模型</th><th style="width:92px">优先级</th><th style="width:96px">健康</th><th style="width:190px">操作</th></tr></thead><tbody>';
+  var h = '<table><thead><tr><th style="width:56px">状态</th><th style="min-width:170px">名称</th><th style="width:112px">类型</th><th style="min-width:140px">Base URL</th><th style="width:220px">模型</th><th class="ar" style="width:76px">优先级</th><th style="width:72px">健康</th><th class="ar" style="width:172px">操作</th></tr></thead><tbody>';
   if(!list.length){
     h += '<tr><td colspan="8"><div class="empty">' + I.inbox + '<div>' + (S.channels.length ? '没有符合筛选条件的渠道' : '暂无渠道，点击右上角「添加渠道」创建') + '</div></div></td></tr>';
   }
@@ -854,15 +859,16 @@ function renderChannels(){
     var c = o.c, i = o.i;
     var hh = c.health;
     var hb = hh ? (hh.ok ? '<span class="badge ok">正常</span>' : '<span class="badge bad" title="' + esc(hh.message || '') + '">异常</span>') : '<span class="badge">-</span>';
+    var subTxt = 'API Key × ' + String(c.api_key || '').split(',').filter(function(s){ return s.trim(); }).length + (hh && hh.checked_at ? ' · 测试于 ' + fmtTime(hh.checked_at) : '');
     h += '<tr>' +
       '<td><label class="switch"><input type="checkbox" data-act="toggle-ch" data-i="' + i + '"' + (c.enabled ? ' checked' : '') + '><span></span></label></td>' +
-      '<td><div class="tname"><div><b>' + esc(c.name) + '</b><span class="sub">API Key × ' + String(c.api_key || '').split(',').filter(function(s){ return s.trim(); }).length + (hh && hh.checked_at ? ' · 测试于 ' + esc(fmtTime(hh.checked_at)) : '') + '</span></div></div></td>' +
+      '<td><div class="tname"><div><b>' + esc(c.name) + '</b><span class="sub" title="' + esc(subTxt) + '">' + esc(subTxt) + '</span></div></div></td>' +
       '<td>' + typeBadge(c) + '</td>' +
       '<td><span class="url" title="' + esc(c.base_url) + '">' + esc(c.base_url) + '</span></td>' +
       '<td>' + modelChips(c) + '</td>' +
-      '<td>' + esc(c.priority == null ? 100 : c.priority) + ' <span class="muted">/ w' + esc(c.weight || 1) + '</span></td>' +
+      '<td class="ar nowrap">' + esc(c.priority == null ? 100 : c.priority) + ' <span class="muted">/ w' + esc(c.weight || 1) + '</span></td>' +
       '<td>' + hb + '</td>' +
-      '<td><div class="ops"><button class="ghost sm" data-act="test-ch" data-i="' + i + '">测试</button>' +
+      '<td><div class="ops r"><button class="ghost sm" data-act="test-ch" data-i="' + i + '">测试</button>' +
       '<button class="ghost sm" data-act="edit-ch" data-i="' + i + '">编辑</button>' +
       '<button class="soft sm" data-act="del-ch" data-i="' + i + '">删除</button></div></td></tr>';
   });
@@ -1073,7 +1079,7 @@ function filteredKeys(){
 }
 function renderKeys(){
   var list = filteredKeys();
-  var h = '<table><thead><tr><th style="width:56px">状态</th><th style="min-width:150px">名称</th><th style="min-width:150px">密钥</th><th style="width:130px">配额</th><th style="width:150px">已用 Tokens</th><th style="width:90px">有效期</th><th style="width:230px">操作</th></tr></thead><tbody>';
+  var h = '<table><thead><tr><th style="width:56px">状态</th><th style="min-width:150px">名称</th><th style="min-width:150px">密钥</th><th style="width:132px">配额</th><th class="ar" style="width:152px">已用 Tokens</th><th style="width:108px">有效期</th><th class="ar" style="width:212px">操作</th></tr></thead><tbody>';
   if(!list.length){
     h += '<tr><td colspan="7"><div class="empty">' + I.inbox + '<div>' + (S.keys.length ? '没有符合筛选条件的密钥' : '暂无密钥，点击右上角「生成密钥」创建') + '</div></div></td></tr>';
   }
@@ -1091,9 +1097,9 @@ function renderKeys(){
       '<td><div class="tname"><div><b>' + esc(k.name) + '</b>' + (subs.length ? '<span class="sub" title="' + esc(subs.join(' · ')) + '">' + subs.join(' · ') + '</span>' : '') + '</div></div></td>' +
       '<td class="mono nowrap">' + esc(maskKey(k.key)) + ' <button class="ghost sm" data-act="copy-key" data-i="' + i + '" title="复制完整密钥"><svg viewBox="0 0 24 24" fill="none" stroke="currentColor" stroke-width="1.8" stroke-linecap="round" stroke-linejoin="round"><rect x="9" y="9" width="12" height="12" rx="2"/><path d="M5 15V5a2 2 0 0 1 2-2h10"/></svg></button></td>' +
       '<td>' + quotaCell(k) + '</td>' +
-      '<td class="nowrap">' + fmtNum(k.used_tokens) + (k.quota_tokens > 0 ? ' <span class="muted">/ ' + fmtNum(k.quota_tokens) + '</span>' : '') + '<span class="sub muted">' + fmtNum(k.requests) + ' 次请求 · $' + fmtCost(k.used_cost) + '</span></td>' +
-      '<td>' + expTxt + '</td>' +
-      '<td><div class="ops"><button class="ghost sm" data-act="edit-key" data-i="' + i + '">编辑</button>' +
+      '<td class="nowrap ar">' + fmtNum(k.used_tokens) + (k.quota_tokens > 0 ? ' <span class="muted">/ ' + fmtNum(k.quota_tokens) + '</span>' : '') + '<span class="sub muted">' + fmtNum(k.requests) + ' 次请求 · $' + fmtCost(k.used_cost) + '</span></td>' +
+      '<td class="nowrap">' + expTxt + '</td>' +
+      '<td><div class="ops r"><button class="ghost sm" data-act="edit-key" data-i="' + i + '">编辑</button>' +
       '<button class="ghost sm" data-act="curl-key" data-i="' + i + '">示例</button>' +
       '<button class="ghost sm" data-act="reset-key" data-i="' + i + '">清零</button>' +
       '<button class="soft sm" data-act="del-key" data-i="' + i + '">删除</button></div></td></tr>';
@@ -1219,7 +1225,7 @@ function loadLogs(silent){
 }
 var LOGF = { ok:'', stream:'', model:'', q:'' };
 function renderLogs(){
-  var h = '<table><thead><tr><th style="width:150px">时间</th><th>调用方</th><th>模型</th><th>渠道</th><th style="width:88px">结果</th><th style="width:92px">Tokens</th><th style="width:80px">耗时</th><th style="width:70px">操作</th></tr></thead><tbody>';
+  var h = '<table><thead><tr><th style="width:150px">时间</th><th style="min-width:150px">调用方</th><th style="min-width:150px">模型</th><th style="width:206px">渠道</th><th style="width:88px">结果</th><th class="ar" style="width:96px">Tokens</th><th class="ar" style="width:84px">耗时</th><th class="ar" style="width:76px">操作</th></tr></thead><tbody>';
   if(!S.logs.length){
     h += '<tr><td colspan="8"><div class="empty">' + I.inbox + '<div>' + esc(S.logDate || '') + ' 暂无符合条件的请求日志</div><div id="logEmptyHint" style="margin-top:12px"></div></div></td></tr>';
   }
@@ -1229,9 +1235,9 @@ function renderLogs(){
       '<td class="mono">' + esc(l.model || '-') + '</td>' +
       '<td>' + esc(l.channel || '-') + (l.stream ? ' <span class="chip">流式</span>' : '') + (l.retries ? ' <span class="chip">重试' + l.retries + '</span>' : '') + '</td>' +
       '<td>' + (l.ok ? '<span class="badge ok">成功</span>' : '<span class="badge bad" title="' + esc(l.error) + '">失败</span>') + '</td>' +
-      '<td>' + fmtNum(l.tokens) + '</td>' +
-      '<td>' + esc(fmtMs(l.ms)) + '</td>' +
-      '<td><button class="ghost sm" data-act="view-log" data-i="' + i + '">详情</button></td></tr>';
+      '<td class="ar">' + fmtNum(l.tokens) + '</td>' +
+      '<td class="ar nowrap">' + esc(fmtMs(l.ms)) + '</td>' +
+      '<td class="ar"><button class="ghost sm" data-act="view-log" data-i="' + i + '">详情</button></td></tr>';
   });
   $('logTable').innerHTML = h + '</tbody></table>';
   $('logPager').innerHTML = S.logCursor ? '<button class="ghost sm" data-act="log-more">加载更早的日志</button>' : (S.logs.length ? '<span class="muted" style="font-size:12px">已到当日日志末尾</span>' : '');
